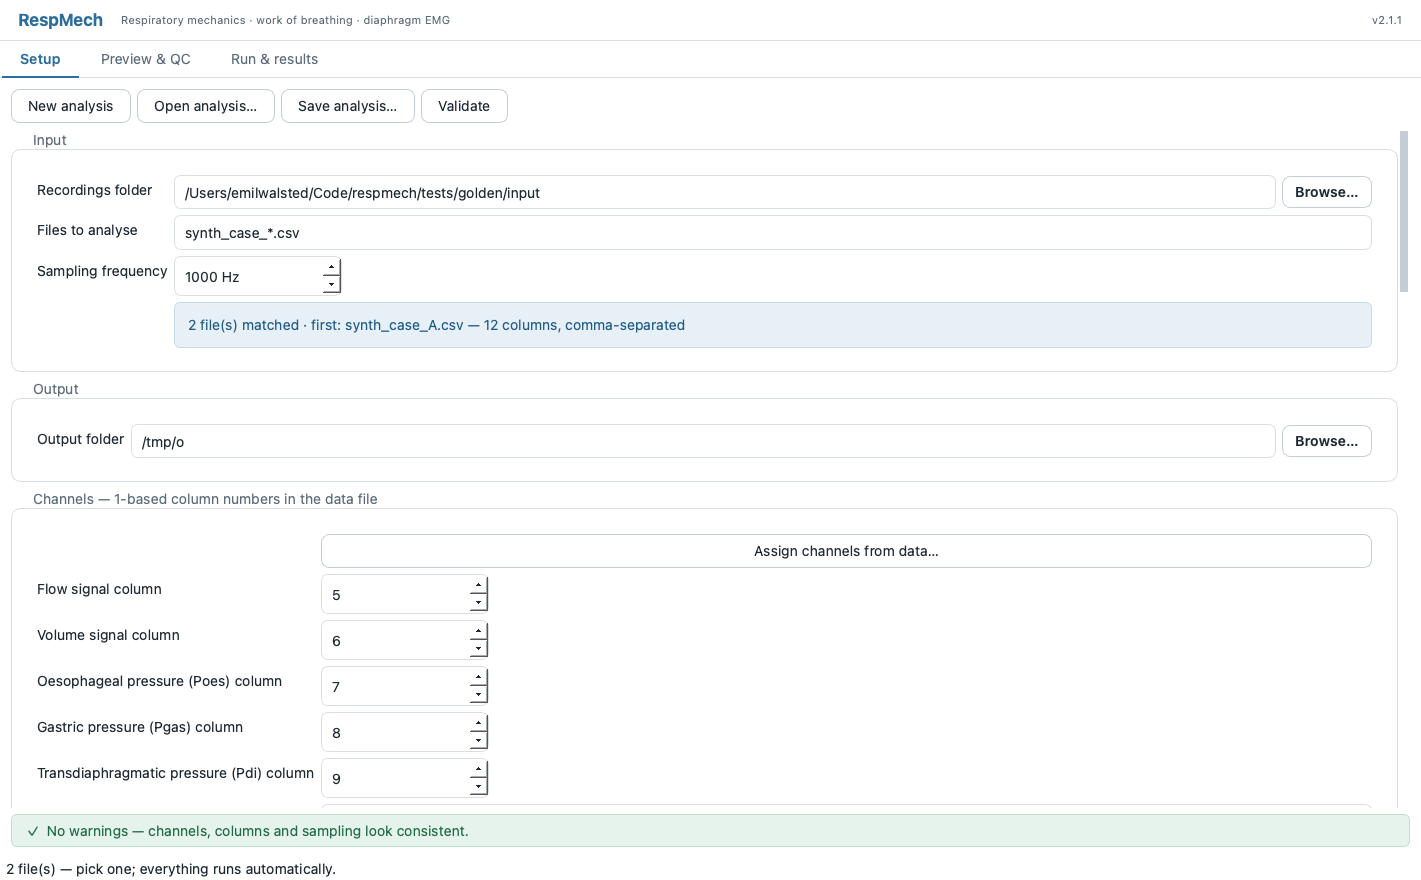
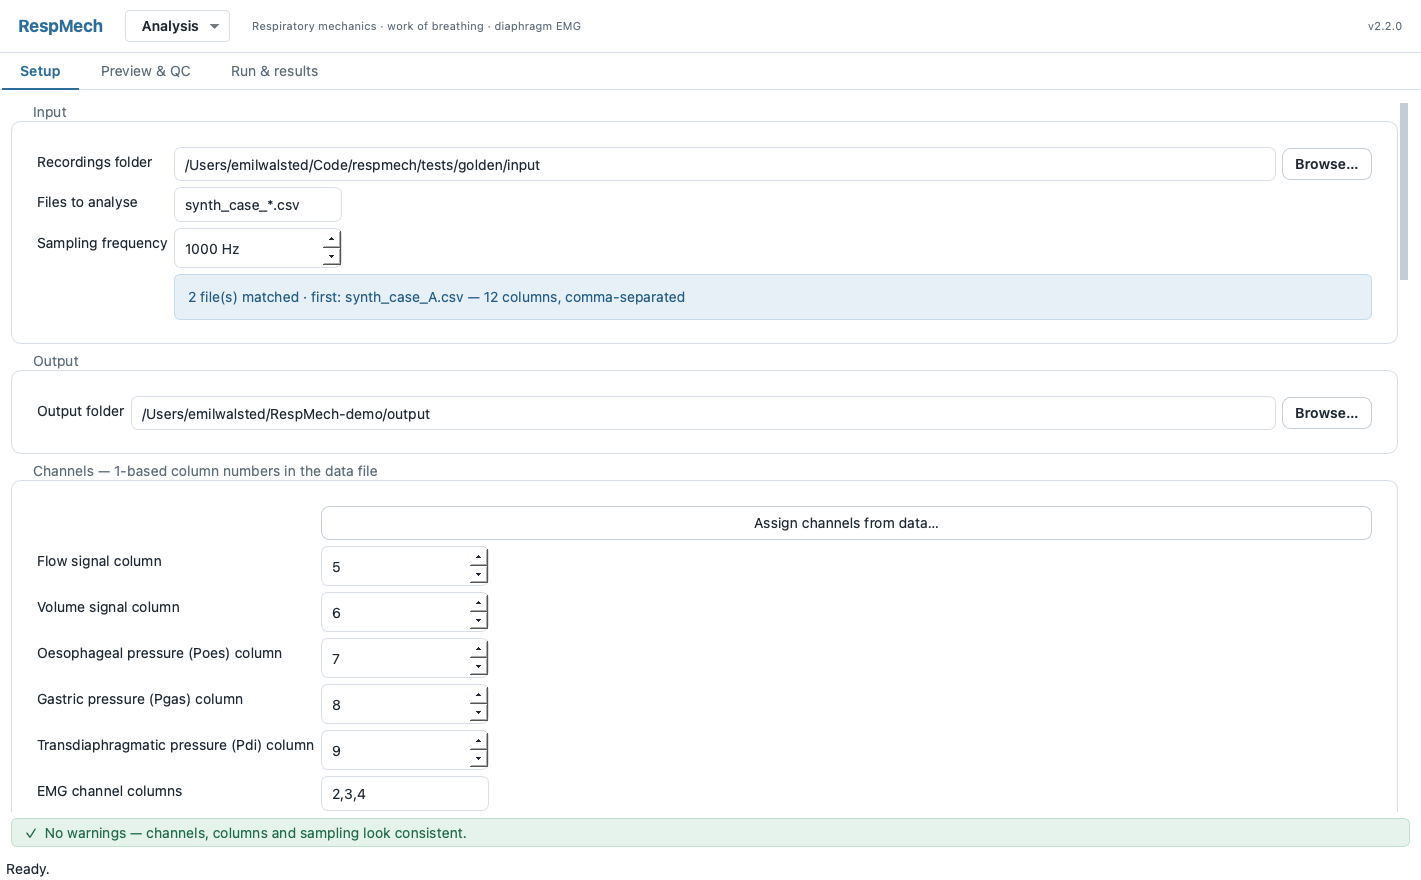
docs: refresh README screenshots + text for the 2.2 UI
Regenerate the three screenshots against the current UI (same synthetic demo
data, so the only change is the interface): the header now carries the Analysis
menu (Open/Save/Save as/recent files) in place of the old per-tab action bar and
Validate button; the Setup fields are capped to tidy columns; the Preview file
strip sizes to content; and the Preview/Run shots are now populated — the Campbell
loop + per-breath table on Preview, and the log, per-file status and averaged
metrics on Run.

Text: note the header Analysis menu (open/save/recent, on every screen, with an
unsaved-changes prompt), live-as-you-type validation, and the populated
Preview/Run screens; bump the example citation to v2.2.

diff --git a/README.md b/README.md
@@ -48,13 +48,16 @@ Three screens, in the order you work:
 
 | Screen | What you do |
 |---|---|
-| **Setup** | Point at your recordings, map the data columns to channels, choose what to save. Assign channels visually from the data if you prefer. |
-| **Preview & QC** | See the analysis on one file *before* running the batch: breath segmentation, Campbell loops, and dedicated tabs to tune **EMG – ECG reduction** and **EMG – noise reduction** against the live signal. Click a breath to exclude it. |
-| **Run & results** | Run the batch, watch progress per file, and open the output folder. |
+| **Setup** | Point at your recordings, map the data columns to channels, choose what to save. Assign channels visually from the data if you prefer. Settings validate as you type — the status bar flags anything inconsistent. |
+| **Preview & QC** | See the analysis on one file *before* running the batch: breath segmentation, the Campbell loop and the per-breath table, and dedicated tabs to tune **EMG – ECG reduction** and **EMG – noise reduction** against the live signal. Click a breath to exclude it. |
+| **Run & results** | Run the batch, watch progress per file, review the per-file status and averaged metrics, and open the output folder. |
 
 ![RespMech — Preview & QC](docs/img/preview-mechanics.png)
 
 Settings are stored as a declarative **TOML** *analysis* file (no longer an executable `.py`).
+Open, save and switch between analyses — including your recently opened files — from the
+**Analysis** menu in the header, which is available on every screen; RespMech marks unsaved
+edits in the title bar and asks before discarding them.
 
 ## Command line
 
@@ -174,4 +177,4 @@ or cite a specific version using that version's DOI (click the badge for the lis
 
 An example citation:
 
-_[...] were calculated using the Python package RespMech (ES Walsted, RespMech v2.1, 2026, https://github.com/emilwalsted/respmech/, DOI: 10.5281/zenodo.3270826) [...]_
+_[...] were calculated using the Python package RespMech (ES Walsted, RespMech v2.2, 2026, https://github.com/emilwalsted/respmech/, DOI: 10.5281/zenodo.3270826) [...]_